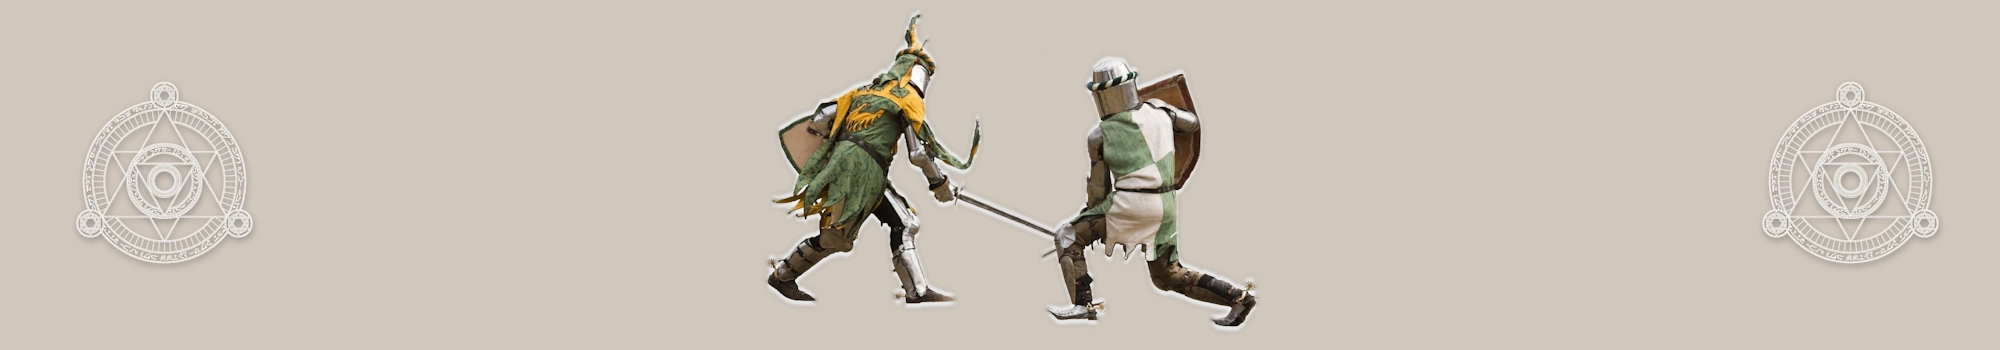
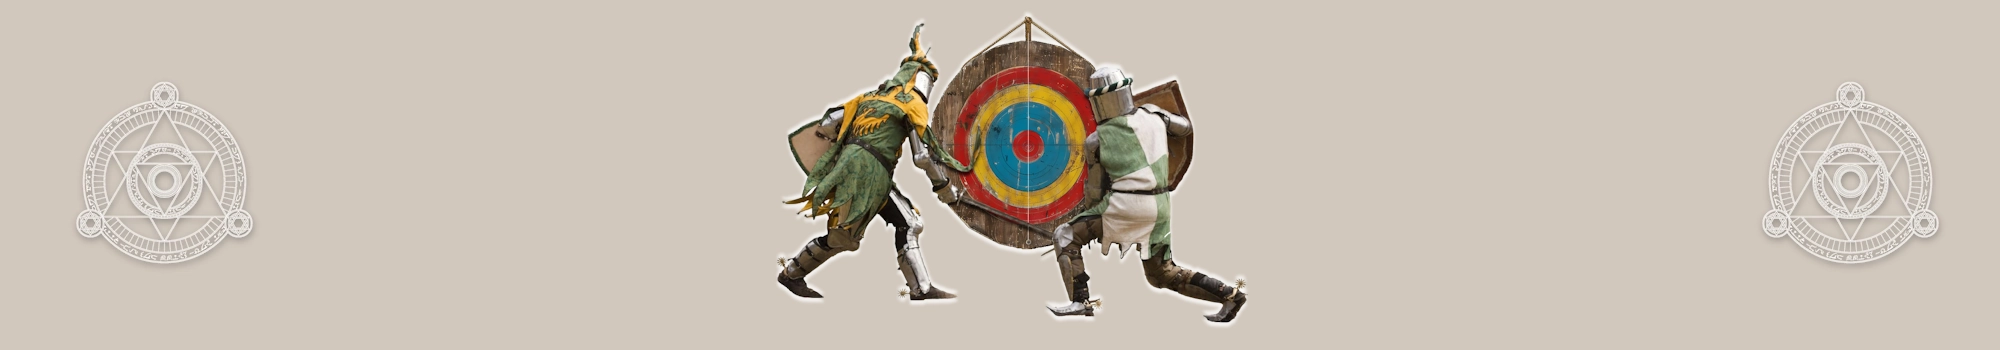
Quartz sync: May 1, 2025, 8:25 PM

Changed region(s): [[0.372, 0.0571, 0.651, 0.9429]]

diff --git a/quartz/components/SideFooter.tsx b/quartz/components/SideFooter.tsx
@@ -17,7 +17,7 @@ export default ((opts?: Options) => {
 		<h3>Next Session: Tuesday, April 29 @7:00pm CT</h3>
 
 		<h4 style="text-align: left; width:49%; display: inline-block;">Navigation</h4>
-		<h4 style="text-align: right; width:50%;  display: inline-block;">v0.55.09</h4>
+		<h4 style="text-align: right; width:50%;  display: inline-block;">v0.55.10</h4>
 		
           {Object.entries(linksSide).map(([text, linksSide]) => (
               <br><a href={linksSide}>{text}</a></br>
